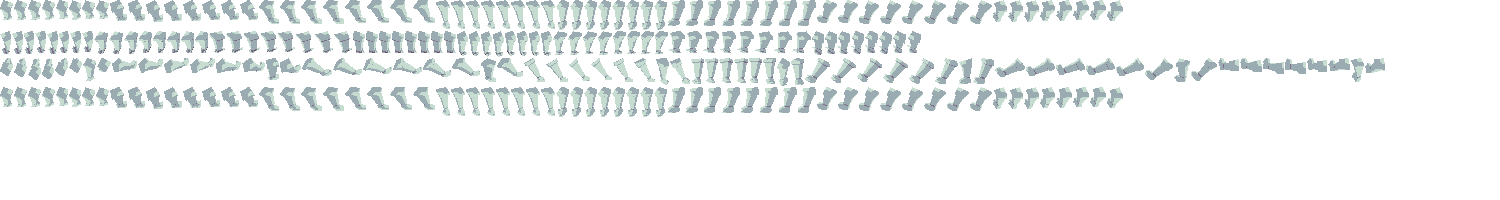
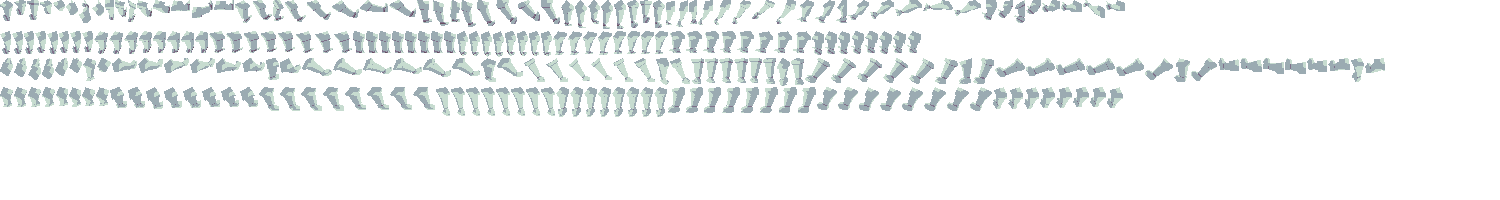
0.8.1577

Changed region(s): [[0.0, 0.0, 0.7667, 0.15]]

diff --git a/gamestream_flutter/lib/gamestream/isometric/components/render/renderer_characters.dart b/gamestream_flutter/lib/gamestream/isometric/components/render/renderer_characters.dart
@@ -480,7 +480,6 @@ class RendererCharacters extends RenderGroup {
     final dstX = character.renderX;
     final dstY = character.renderY;
 
-    final Sprite spriteEmpty;
     final Sprite spriteBody;
     final Sprite spriteBodyArm;
     final Sprite spriteHead;
@@ -495,8 +494,9 @@ class RendererCharacters extends RenderGroup {
     final Sprite spriteArmFront;
     final Sprite spriteArmBehind;
 
-    final gloveGroupLeft = images.spriteGroupsGloves[character.handTypeLeft] ?? (throw Exception());
-    final gloveGroupRight = images.spriteGroupsGloves[character.handTypeRight] ?? (throw Exception());
+    final spriteGroupGloves = images.spriteGroupsGloves;
+    final gloveGroupLeft = spriteGroupGloves[character.handTypeLeft] ?? (throw Exception());
+    final gloveGroupRight = spriteGroupGloves[character.handTypeRight] ?? (throw Exception());
 
     final leftInFront = const [
       InputDirection.Up_Left,

diff --git a/bleed-common/lib/src/version.dart b/bleed-common/lib/src/version.dart
@@ -1,4 +1,4 @@
-const version = '0.8.1575';
+const version = '0.8.1577';
 
 
 

diff --git a/gamestream_flutter/lib/common/src/version.dart b/gamestream_flutter/lib/common/src/version.dart
@@ -1,4 +1,4 @@
-const version = '0.8.1575';
+const version = '0.8.1577';
 
 
 

diff --git a/gamestream_server/lib/common/src/version.dart b/gamestream_server/lib/common/src/version.dart
@@ -1,4 +1,4 @@
-const version = '0.8.1575';
+const version = '0.8.1577';
 
 
 
